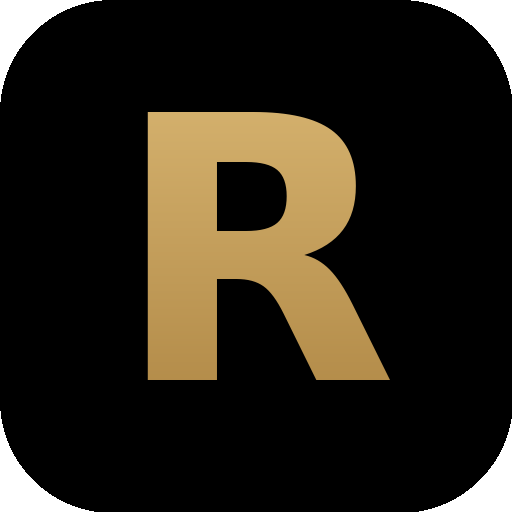
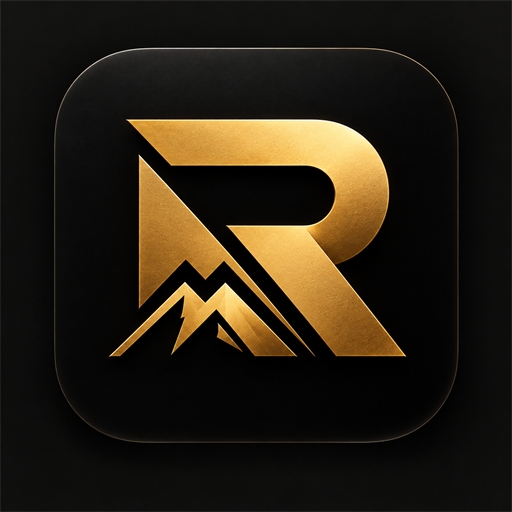
feat: novo ícone premium + login com Google restrito
- Substitui monograma R por ícone premium (R com montanha) em todos os tamanhos
- Login page: só botão "Entrar com Google" (removido email/senha)
- Whitelist de 2 emails no middleware + callback OAuth
- Atualiza layout, manifest e favicon para novos PNGs

diff --git a/app/login/page.tsx b/app/login/page.tsx
@@ -1,44 +1,52 @@
 'use client';
 
-import { useState } from 'react';
-import { useRouter } from 'next/navigation';
+import { useState, useEffect, Suspense } from 'react';
+import { useSearchParams } from 'next/navigation';
 import { createClient } from '@/lib/supabase/client';
 import { Loader2 } from 'lucide-react';
-import { GOLD, GOLD_SOFT, GOLD_DEEP } from '@/lib/constants';
 
-export default function LoginPage() {
-  const router = useRouter();
+function LoginContent() {
   const supabase = createClient();
-  const [email, setEmail] = useState('');
-  const [password, setPassword] = useState('');
+  const searchParams = useSearchParams();
   const [error, setError] = useState<string | null>(null);
   const [loading, setLoading] = useState(false);
 
-  async function handleSubmit(e: React.FormEvent) {
-    e.preventDefault();
+  useEffect(() => {
+    const err = searchParams.get('error');
+    if (err === 'unauthorized') {
+      setError('E-mail sem permissão de acesso.');
+    } else if (err === 'oauth') {
+      setError('Não foi possível entrar com Google. Tente novamente.');
+    }
+  }, [searchParams]);
+
+  async function handleGoogleSignIn() {
     setError(null);
     setLoading(true);
-    const { error: signInError } = await supabase.auth.signInWithPassword({ email, password });
-    setLoading(false);
+    const { error: signInError } = await supabase.auth.signInWithOAuth({
+      provider: 'google',
+      options: {
+        redirectTo: `${window.location.origin}/auth/callback`,
+        queryParams: { access_type: 'offline', prompt: 'consent' },
+      },
+    });
     if (signInError) {
-      setError('E-mail ou senha inválidos.');
-      return;
+      setError('Não foi possível iniciar login com Google.');
+      setLoading(false);
     }
-    router.push('/');
-    router.refresh();
   }
 
   return (
     <div className="min-h-screen bg-black flex items-center justify-center px-6">
       <div className="w-full max-w-[360px]">
-        {/* Logo/monogram */}
         <div className="flex justify-center">
-          <div
-            className="w-16 h-16 rounded-2xl flex items-center justify-center"
-            style={{ background: `linear-gradient(135deg, ${GOLD_SOFT} 0%, ${GOLD_DEEP} 100%)` }}
-          >
-            <span className="text-black font-bold text-[28px]">R</span>
-          </div>
+          <img
+            src="/icon-512.png"
+            alt="Ribeiro Mineração"
+            width={96}
+            height={96}
+            className="rounded-2xl"
+          />
         </div>
 
         <div className="mt-6 text-center">
@@ -46,42 +54,52 @@ export default function LoginPage() {
             Ribeiro Mineração
           </div>
           <h1 className="mt-1 text-[24px] font-semibold tracking-tight">Entrar</h1>
+          <p className="mt-2 text-[13px] text-white/40">
+            Acesso restrito à família Ribeiro
+          </p>
         </div>
 
-        <form onSubmit={handleSubmit} className="mt-8 space-y-3">
-          <input
-            type="email"
-            required
-            autoComplete="email"
-            value={email}
-            onChange={(e) => setEmail(e.target.value)}
-            placeholder="E-mail"
-            className="w-full bg-white/[0.06] rounded-xl px-4 py-3.5 text-[16px] text-white outline-none placeholder:text-white/30 focus:bg-white/[0.09]"
-          />
-          <input
-            type="password"
-            required
-            autoComplete="current-password"
-            value={password}
-            onChange={(e) => setPassword(e.target.value)}
-            placeholder="Senha"
-            className="w-full bg-white/[0.06] rounded-xl px-4 py-3.5 text-[16px] text-white outline-none placeholder:text-white/30 focus:bg-white/[0.09]"
-          />
+        <div className="mt-8">
+          <button
+            type="button"
+            onClick={handleGoogleSignIn}
+            disabled={loading}
+            className="w-full py-3.5 rounded-xl text-[15px] font-medium bg-white text-black transition disabled:opacity-40 active:scale-[0.98] flex items-center justify-center gap-3"
+          >
+            {loading ? (
+              <Loader2 size={18} className="animate-spin" />
+            ) : (
+              <>
+                <GoogleG />
+                <span>Entrar com Google</span>
+              </>
+            )}
+          </button>
 
           {error && (
-            <div className="text-[13px] text-[#ff453a] text-center pt-1">{error}</div>
+            <div className="mt-4 text-[13px] text-[#ff453a] text-center">{error}</div>
           )}
-
-          <button
-            type="submit"
-            disabled={loading || !email || !password}
-            className="mt-2 w-full py-3.5 rounded-xl text-[16px] font-semibold text-black transition disabled:opacity-40 active:scale-[0.98] flex items-center justify-center gap-2"
-            style={{ background: `linear-gradient(135deg, ${GOLD_SOFT} 0%, ${GOLD_DEEP} 100%)` }}
-          >
-            {loading ? <Loader2 size={18} className="animate-spin" /> : 'Entrar'}
-          </button>
-        </form>
+        </div>
       </div>
     </div>
+  );
+}
+
+function GoogleG() {
+  return (
+    <svg width="18" height="18" viewBox="0 0 48 48" aria-hidden="true">
+      <path fill="#4285F4" d="M45.12 24.5c0-1.56-.14-3.06-.4-4.5H24v8.51h11.84c-.51 2.75-2.06 5.08-4.39 6.64v5.52h7.11c4.16-3.83 6.56-9.47 6.56-16.17z"/>
+      <path fill="#34A853" d="M24 46c5.94 0 10.92-1.97 14.56-5.33l-7.11-5.52c-1.97 1.32-4.49 2.1-7.45 2.1-5.73 0-10.58-3.87-12.31-9.07H4.34v5.7C7.96 41.07 15.4 46 24 46z"/>
+      <path fill="#FBBC05" d="M11.69 28.18C11.25 26.86 11 25.45 11 24s.25-2.86.69-4.18v-5.7H4.34C2.85 17.09 2 20.45 2 24c0 3.55.85 6.91 2.34 9.88l7.35-5.7z"/>
+      <path fill="#EA4335" d="M24 10.75c3.23 0 6.13 1.11 8.41 3.29l6.31-6.31C34.91 4.18 29.93 2 24 2 15.4 2 7.96 6.93 4.34 14.12l7.35 5.7c1.73-5.2 6.58-9.07 12.31-9.07z"/>
+    </svg>
+  );
+}
+
+export default function LoginPage() {
+  return (
+    <Suspense fallback={<div className="min-h-screen bg-black" />}>
+      <LoginContent />
+    </Suspense>
   );
 }

diff --git a/lib/supabase/middleware.ts b/lib/supabase/middleware.ts
@@ -1,5 +1,6 @@
 import { createServerClient, type CookieOptions } from '@supabase/ssr';
 import { NextResponse, type NextRequest } from 'next/server';
+import { ALLOWED_EMAILS } from '@/lib/constants';
 
 type CookieToSet = { name: string; value: string; options?: CookieOptions };
 
@@ -27,11 +28,23 @@ export async function updateSession(request: NextRequest) {
 
   const { data: { user } } = await supabase.auth.getUser();
 
-  // Redireciona rotas protegidas para /login se não autenticado
   const url = request.nextUrl;
   const isPublic =
     url.pathname.startsWith('/login') ||
     url.pathname.startsWith('/auth');
+
+  if (user) {
+    const email = user.email?.toLowerCase() ?? null;
+    if (!email || !ALLOWED_EMAILS.includes(email)) {
+      await supabase.auth.signOut();
+      if (!isPublic) {
+        const loginUrl = url.clone();
+        loginUrl.pathname = '/login';
+        loginUrl.searchParams.set('error', 'unauthorized');
+        return NextResponse.redirect(loginUrl);
+      }
+    }
+  }
 
   if (!user && !isPublic) {
     const loginUrl = url.clone();

diff --git a/components/Monogram.tsx b/components/Monogram.tsx
@@ -1,7 +1,5 @@
 'use client';
 
-import { GOLD_SOFT, GOLD_DEEP } from '@/lib/constants';
-
 export default function Monogram({
   onClick, size = 40,
 }: {
@@ -12,19 +10,17 @@ export default function Monogram({
   return (
     <Cmp
       onClick={onClick}
-      className="rounded-full flex items-center justify-center active:opacity-80 transition"
-      style={{
-        width: size, height: size,
-        background: `linear-gradient(135deg, ${GOLD_SOFT} 0%, ${GOLD_DEEP} 100%)`,
-      }}
+      className="rounded-2xl overflow-hidden active:opacity-80 transition"
+      style={{ width: size, height: size }}
       aria-label={onClick ? 'Menu' : undefined}
     >
-      <span
-        className="text-black font-bold tracking-tight"
-        style={{ fontSize: size * 0.4 }}
-      >
-        R
-      </span>
+      <img
+        src="/icon-512.png"
+        alt="Ribeiro Mineração"
+        width={size}
+        height={size}
+        className="block w-full h-full object-cover"
+      />
     </Cmp>
   );
 }

diff --git a/app/auth/callback/route.ts b/app/auth/callback/route.ts
@@ -1,0 +1,29 @@
+import { NextResponse } from 'next/server';
+import { createClient } from '@/lib/supabase/server';
+import { ALLOWED_EMAILS } from '@/lib/constants';
+
+export async function GET(request: Request) {
+  const url = new URL(request.url);
+  const code = url.searchParams.get('code');
+  const origin = url.origin;
+
+  if (!code) {
+    return NextResponse.redirect(`${origin}/login?error=oauth`);
+  }
+
+  const supabase = createClient();
+  const { error: exchangeError } = await supabase.auth.exchangeCodeForSession(code);
+  if (exchangeError) {
+    return NextResponse.redirect(`${origin}/login?error=oauth`);
+  }
+
+  const { data: { user } } = await supabase.auth.getUser();
+  const email = user?.email?.toLowerCase() ?? null;
+
+  if (!email || !ALLOWED_EMAILS.includes(email)) {
+    await supabase.auth.signOut();
+    return NextResponse.redirect(`${origin}/login?error=unauthorized`);
+  }
+
+  return NextResponse.redirect(origin);
+}

diff --git a/lib/constants.ts b/lib/constants.ts
@@ -9,6 +9,11 @@ export const GOLD_DEEP = '#a67d3b';
 export const GREEN = '#34c47a';
 export const RED = '#ff453a';
 
+export const ALLOWED_EMAILS = [
+  'dayvtholiveira@gmail.com',
+  'dieinison2015@gmail.com',
+];
+
 export type Category = { id: string; name: string; icon: LucideIcon };
 
 export const CATEGORIES: Category[] = [

diff --git a/app/layout.tsx b/app/layout.tsx
@@ -11,7 +11,10 @@ export const metadata: Metadata = {
     title: 'Ribeiro',
   },
   icons: {
-    icon: '/icon.svg',
+    icon: [
+      { url: '/icon-192.png', sizes: '192x192', type: 'image/png' },
+      { url: '/icon-512.png', sizes: '512x512', type: 'image/png' },
+    ],
     apple: '/apple-touch-icon.png',
   },
 };
